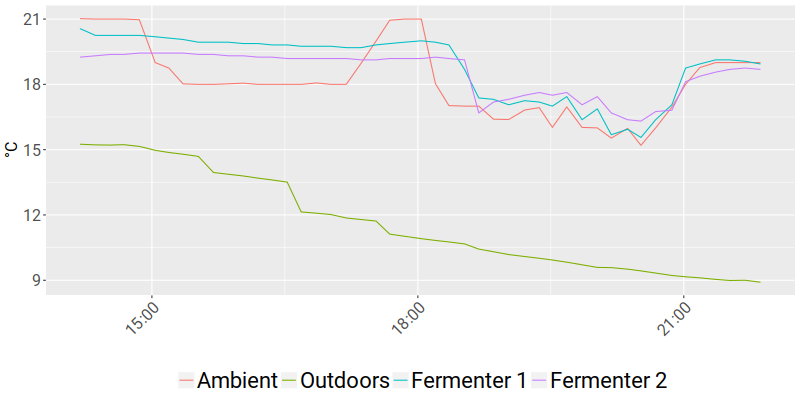
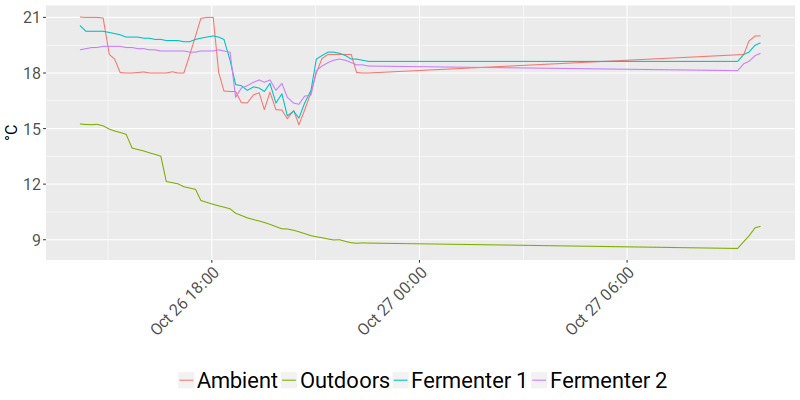
Update live temperature on site

diff --git a/temperature.js b/temperature.js
@@ -1,1 +1,1 @@
-document.write("<h4>Inside Temperature: 19.0°C</h4><h4>Outside Temperature: 8.91°C</h4><h4>Fermenter 1 Temperature: 18.94°C</h4><h4>Fermenter 2 Temperature: 18.69°C</h4><h4>Inside Humidity: 50.63%</h4><h4>Outside Humidity: 86.0%</h4><br>Last update: 2017-10-26 21:51:54");
+document.write("<h4>Inside Temperature: 20.0°C</h4><h4>Outside Temperature: 9.72°C</h4><h4>Fermenter 1 Temperature: 19.63°C</h4><h4>Fermenter 2 Temperature: 19.06°C</h4><h4>Inside Humidity: 36.32%</h4><h4>Outside Humidity: 69.0%</h4><br>Last update: 2017-10-27 09:51:18");
